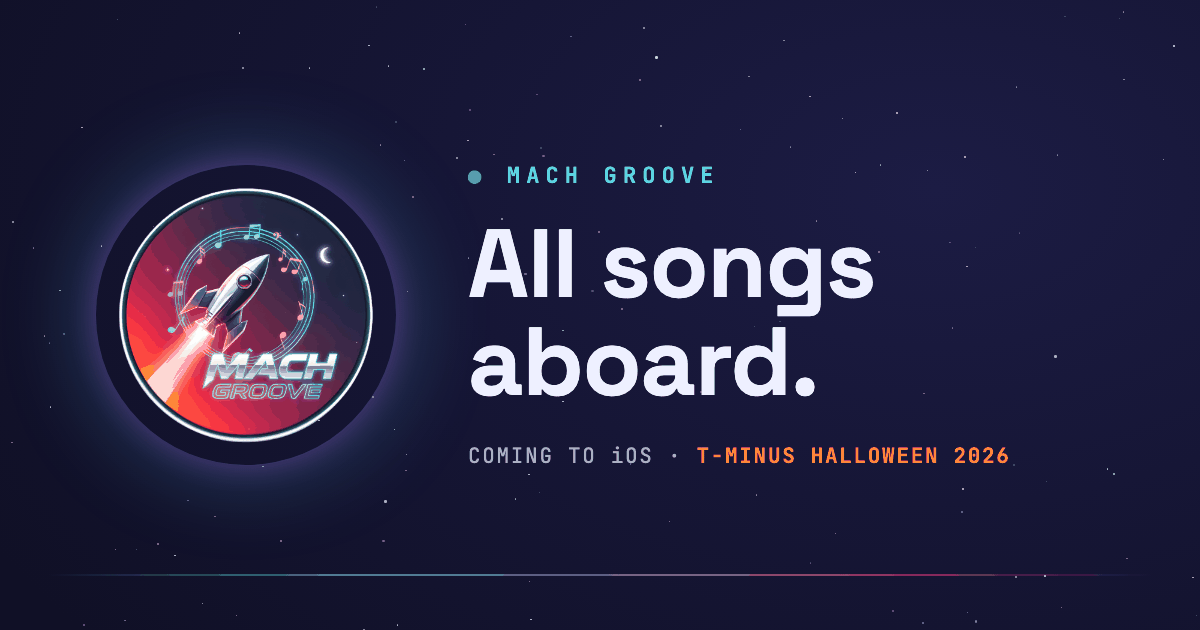
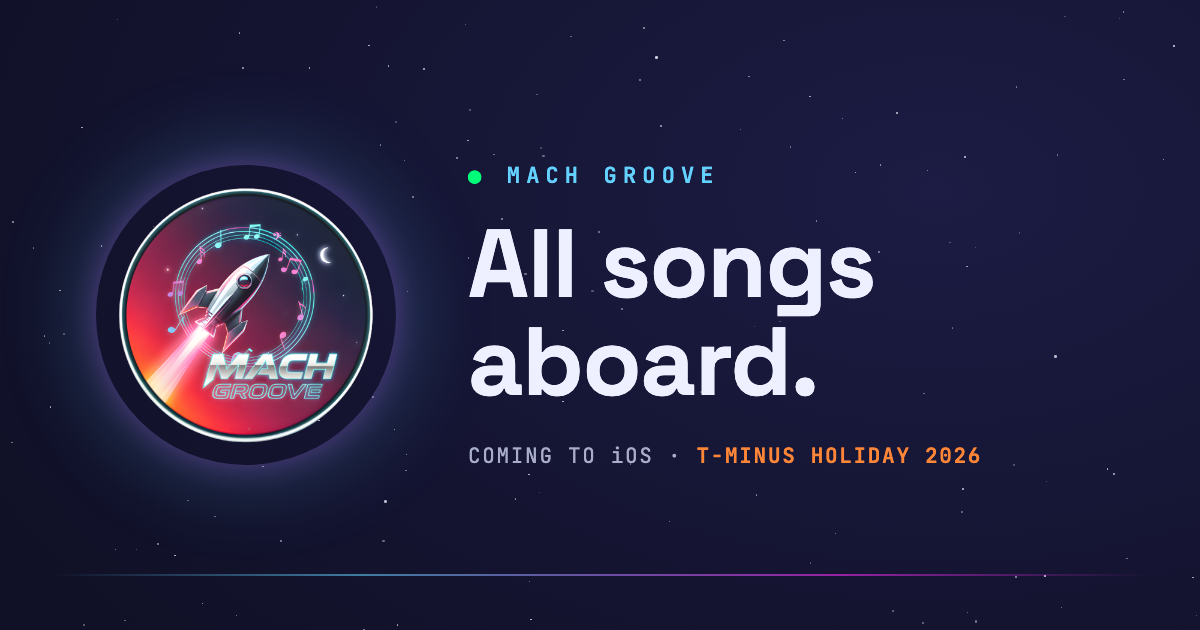
B-0061: launch date Holiday 2026 across the site and share image (re-rendered, cache-busted); five modes section under the hero - Songs (Studio Cut), Karaoke (Mic Check), Music Videos (Watch Party), Live (Live and Direct), Performances (Showtime); Payload Manifest reworked - Top It Off replaces Pick

diff --git a/index.html b/index.html
@@ -13,14 +13,14 @@
   <meta property="og:type" content="website">
   <meta property="og:site_name" content="Mach Groove">
   <meta property="og:title" content="Mach Groove — All songs aboard">
-  <meta property="og:description" content="Playlists with places to go. No strings attached. Coming to iOS, Halloween 2026.">
+  <meta property="og:description" content="Playlists with places to go. No strings attached. Coming to iOS, Holiday 2026.">
   <meta property="og:url" content="https://mach-groove.app/">
-  <meta property="og:image" content="https://mach-groove.app/assets/og-card.png">
+  <meta property="og:image" content="https://mach-groove.app/assets/og-card.png?v=holiday2026">
   <meta property="og:image:width" content="1200">
   <meta property="og:image:height" content="630">
-  <meta property="og:image:alt" content="Mach Groove — All songs aboard. Coming to iOS, T-minus Halloween 2026.">
+  <meta property="og:image:alt" content="Mach Groove — All songs aboard. Coming to iOS, T-minus Holiday 2026.">
   <meta name="twitter:card" content="summary_large_image">
-  <meta name="twitter:image" content="https://mach-groove.app/assets/og-card.png">
+  <meta name="twitter:image" content="https://mach-groove.app/assets/og-card.png?v=holiday2026">
 
   <link rel="icon" type="image/png" sizes="32x32" href="assets/favicon-32.png">
   <link rel="icon" type="image/png" sizes="64x64" href="assets/favicon-64.png">
@@ -29,7 +29,7 @@
   <link rel="preconnect" href="https://fonts.googleapis.com">
   <link rel="preconnect" href="https://fonts.gstatic.com" crossorigin>
   <link rel="stylesheet" href="https://fonts.googleapis.com/css2?family=Space+Grotesk:wght@400;500;600;700&family=JetBrains+Mono:wght@400;600&display=swap">
-  <link rel="stylesheet" href="css/styles.css?v=20260915">
+  <link rel="stylesheet" href="css/styles.css?v=20261018d">
 </head>
 <body>
   <a class="skip-link" href="#main">Skip to content</a>
@@ -49,7 +49,7 @@
       </button>
       <nav class="nav__menu" id="nav-menu" aria-label="Primary">
         <ul class="nav__links">
-          <li><a href="#features" data-section="features">Features</a></li>
+          <li><a href="#flip" data-section="flip">Features</a></li>
           <li><a href="#how" data-section="how">Mission</a></li>
           <li><a href="#socials" data-section="socials">Socials</a></li>
           <li><a href="support/">Support</a></li>
@@ -67,7 +67,7 @@
         <div class="hero__copy">
           <p class="eyebrow mono">
             <span class="status-dot" aria-hidden="true"></span>
-            SYSTEMS NOMINAL · T-MINUS HALLOWEEN 2026
+            SYSTEMS NOMINAL · T-MINUS HOLIDAY 2026
           </p>
           <h1 id="hero-title" class="hero__title">
             All songs aboard.
@@ -147,6 +147,53 @@
       </div>
     </section>
 
+    <!-- ============ SAME-SERVICE FORMAT FLIP ============ -->
+    <section class="flip features" id="flip" aria-labelledby="flip-title">
+      <div class="container">
+        <p class="eyebrow mono">LOCAL ORBIT</p>
+        <h2 id="flip-title" class="section-title">One service is plenty.</h2>
+        <p class="flip__lede">No second subscription required. Pick one of five modes and Mach Groove rebuilds a playlist right where it lives — same service, whole new format.</p>
+
+        <div class="feature-grid feature-grid--five">
+          <article class="card">
+            <div class="card__icon" aria-hidden="true">🎵</div>
+            <p class="card__mode mono">SONGS</p>
+            <h3 class="card__title">Studio Cut</h3>
+            <p>Any playlist, delivered as straight-up songs — no matter what it started as.</p>
+            <p>Album art, background play, no screen required.</p>
+          </article>
+          <article class="card">
+            <div class="card__icon" aria-hidden="true">🎤</div>
+            <p class="card__mode mono">KARAOKE</p>
+            <h3 class="card__title">Mic Check</h3>
+            <p>The songs everyone knows, minus the lead vocals.</p>
+            <p>Your party playlist, rebuilt as karaoke tracks. Mics hot.</p>
+          </article>
+          <article class="card">
+            <div class="card__icon" aria-hidden="true">📺</div>
+            <p class="card__mode mono">MUSIC VIDEOS</p>
+            <h3 class="card__title">Watch Party</h3>
+            <p>The same playlist, now in living color.</p>
+            <p>Built for the big screen instead of the background.</p>
+          </article>
+          <article class="card">
+            <div class="card__icon" aria-hidden="true">🎸</div>
+            <p class="card__mode mono">LIVE</p>
+            <h3 class="card__title">Live and Direct</h3>
+            <p>Swap the studio versions for the live recordings.</p>
+            <p>Same setlist, real crowd.</p>
+          </article>
+          <article class="card">
+            <div class="card__icon" aria-hidden="true">🕺</div>
+            <p class="card__mode mono">PERFORMANCES</p>
+            <h3 class="card__title">Showtime</h3>
+            <p>The same playlist, performed on stage. Award shows, TV, concerts.</p>
+            <p>Made for watching, not just listening.</p>
+          </article>
+        </div>
+      </div>
+    </section>
+
     <!-- ============ FEATURES ============ -->
     <section class="features" id="features" aria-labelledby="features-title">
       <div class="container">
@@ -155,57 +202,27 @@
 
         <div class="feature-grid">
           <article class="card">
-            <div class="card__icon" aria-hidden="true">🎛</div>
-            <h3 class="card__title">Pick your format</h3>
-            <p>Move a playlist as songs, or rebuild it as music videos, live performances, or karaoke.</p>
-            <p>Pick the format before launch. Mach Groove finds the right version on the other side.</p>
-          </article>
-          <article class="card">
-            <div class="card__icon" aria-hidden="true">🛰</div>
-            <h3 class="card__title">Cross-service transfers</h3>
+            <div class="card__icon" aria-hidden="true">🔗</div>
+            <h3 class="card__title">Cross-Service Transfers</h3>
             <p>Beam any playlist from one service to another, in either direction.</p>
             <p>Pick the cargo, pick the destination, and launch the sequence.</p>
           </article>
           <article class="card">
-            <div class="card__icon" aria-hidden="true">🎯</div>
-            <h3 class="card__title">No song left behind</h3>
-            <p>When a track can't be matched, the transfer holds instead of guessing.</p>
-            <p>You pick the replacement, then deliver. Your call, not an algorithm's.</p>
+            <div class="card__icon" aria-hidden="true">⛽</div>
+            <h3 class="card__title">Top It Off</h3>
+            <p>Already have the playlist? Mach Groove tops it off with only the songs it's missing — no doubles, no do-overs.</p>
+            <p>Added five songs since last time? Beam it again, and just those five land.</p>
           </article>
           <article class="card">
             <div class="card__icon" aria-hidden="true">📦</div>
-            <h3 class="card__title">Honest transfer counts</h3>
+            <h3 class="card__title">No Song Left Behind</h3>
+            <p>Every track lands as the right version — explicit stays explicit, and no remix or cover gets snuck in.</p>
+            <p>Can't find a match? The transfer holds and you pick. Your call, not an algorithm's.</p>
+          </article>
+          <article class="card">
+            <div class="card__icon" aria-hidden="true">✅</div>
+            <h3 class="card__title">Honest Transfer Counts</h3>
             <p>When the transfer finishes, Mach Groove checks the destination and counts what actually arrived.</p>
-          </article>
-        </div>
-      </div>
-    </section>
-
-    <!-- ============ SAME-SERVICE FORMAT FLIP ============ -->
-    <section class="flip features" id="flip" aria-labelledby="flip-title">
-      <div class="container">
-        <p class="eyebrow mono">LOCAL ORBIT</p>
-        <h2 id="flip-title" class="section-title">One service is plenty.</h2>
-        <p class="flip__lede">No second subscription required. Mach Groove can rebuild a playlist right where it lives — same service, whole new format.</p>
-
-        <div class="feature-grid">
-          <article class="card">
-            <div class="card__icon" aria-hidden="true">🎤</div>
-            <h3 class="card__title">Karaoke night</h3>
-            <p>The songs everyone knows, minus the lead vocals.</p>
-            <p>Your party playlist, rebuilt as karaoke tracks. Mics hot.</p>
-          </article>
-          <article class="card">
-            <div class="card__icon" aria-hidden="true">📺</div>
-            <h3 class="card__title">Visuals on</h3>
-            <p>The same playlist, as music videos.</p>
-            <p>Built for the big screen instead of the background.</p>
-          </article>
-          <article class="card">
-            <div class="card__icon" aria-hidden="true">🎸</div>
-            <h3 class="card__title">Live from everywhere</h3>
-            <p>Swap the studio versions for live performances.</p>
-            <p>Same setlist, real crowd.</p>
           </article>
         </div>
       </div>
@@ -294,6 +311,6 @@
     </div>
   </footer>
 
-  <script src="js/main.js?v=20260911" defer></script>
+  <script src="js/main.js?v=20261018" defer></script>
 </body>
 </html>

diff --git a/privacy/index.html b/privacy/index.html
@@ -14,12 +14,12 @@
   <meta property="og:title" content="Privacy Policy — Mach Groove">
   <meta property="og:description" content="What we collect, where it lives, and how to delete it — plainly.">
   <meta property="og:url" content="https://mach-groove.app/privacy/">
-  <meta property="og:image" content="https://mach-groove.app/assets/og-card.png">
+  <meta property="og:image" content="https://mach-groove.app/assets/og-card.png?v=holiday2026">
   <meta property="og:image:width" content="1200">
   <meta property="og:image:height" content="630">
-  <meta property="og:image:alt" content="Mach Groove — All songs aboard. Coming to iOS, T-minus Halloween 2026.">
+  <meta property="og:image:alt" content="Mach Groove — All songs aboard. Coming to iOS, T-minus Holiday 2026.">
   <meta name="twitter:card" content="summary_large_image">
-  <meta name="twitter:image" content="https://mach-groove.app/assets/og-card.png">
+  <meta name="twitter:image" content="https://mach-groove.app/assets/og-card.png?v=holiday2026">
 
   <link rel="icon" type="image/png" sizes="32x32" href="../assets/favicon-32.png">
   <link rel="apple-touch-icon" href="../assets/apple-touch-icon.png">
@@ -60,9 +60,9 @@
     <div class="container">
       <p class="eyebrow mono">FLIGHT RULES</p>
       <h1>Privacy Policy</h1>
-      <p class="mono" style="font-size:.75rem;color:var(--text-faint)">EFFECTIVE DATE: SEPTEMBER 11, 2026 · LAST UPDATED: SEPTEMBER 28, 2026</p>
+      <p class="mono" style="font-size:.75rem;color:var(--text-faint)">EFFECTIVE DATE: SEPTEMBER 11, 2026 · LAST UPDATED: OCTOBER 18, 2026</p>
 
-      <p>Mach Groove is an iOS app by LMDx Tech that moves playlists between Spotify, Apple Music, YouTube Music, and YouTube — as songs, music videos, or live performances. Same playlist, different vibe. This policy says plainly what we collect, where it lives, how long we keep it, and how to delete it. The short version: we collect almost nothing, we track nothing, and we never sell anything.</p>
+      <p>Mach Groove is an iOS app by LMDx Tech that moves playlists between Spotify, Apple Music, YouTube Music, and YouTube — as songs, live versions, karaoke, music videos, or live performance videos. Same playlist, different vibe. This policy says plainly what we collect, where it lives, how long we keep it, and how to delete it. The short version: we collect almost nothing, we track nothing, and we never sell anything.</p>
 
       <h2 id="what-we-collect">What we collect</h2>
       <p>When you sign in with Apple or Google, we collect only what your account needs:</p>
@@ -164,6 +164,6 @@
       <p class="footer__copy mono">© 2026 LMDx Tech · All systems nominal.</p>
     </div>
   </footer>
-  <script src="../js/main.js?v=20260911" defer></script>
+  <script src="../js/main.js?v=20261018" defer></script>
 </body>
 </html>

diff --git a/js/main.js b/js/main.js
@@ -34,20 +34,32 @@
     var byId = {};
     sectionLinks.forEach(function (a) { byId[a.getAttribute('data-section')] = a; });
     var visible = {};
-    var io = new IntersectionObserver(function (entries) {
-      entries.forEach(function (en) { visible[en.target.id] = en.isIntersecting ? en.intersectionRatio : 0; });
+    // B-0061 (Dom): the last section (Socials) sits at the bottom of the page
+    // and can never scroll up into the middle band the observer watches, so
+    // its link never lit — at the very bottom, the last linked section wins.
+    var lastId = sectionLinks[sectionLinks.length - 1].getAttribute('data-section');
+    function atBottom() {
+      return window.innerHeight + window.scrollY >= document.documentElement.scrollHeight - 4;
+    }
+    function paint() {
       var best = null, bestRatio = 0;
       Object.keys(visible).forEach(function (id) {
         if (visible[id] > bestRatio) { bestRatio = visible[id]; best = id; }
       });
+      if (atBottom()) { best = lastId; }
       sectionLinks.forEach(function (a) {
         a.classList.toggle('is-active', a.getAttribute('data-section') === best);
       });
+    }
+    var io = new IntersectionObserver(function (entries) {
+      entries.forEach(function (en) { visible[en.target.id] = en.isIntersecting ? en.intersectionRatio : 0; });
+      paint();
     }, { rootMargin: '-40% 0px -45% 0px', threshold: [0, 0.1, 0.25, 0.5, 0.75, 1] });
     Object.keys(byId).forEach(function (id) {
       var el = document.getElementById(id);
       if (el) io.observe(el);
     });
+    window.addEventListener('scroll', paint, { passive: true });
   }
 
   // ---------- Launch alerts form ----------

diff --git a/support/index.html b/support/index.html
@@ -14,12 +14,12 @@
   <meta property="og:title" content="Support — Mach Groove">
   <meta property="og:description" content="Something off with a transfer? Send it our way — we'll get it sorted.">
   <meta property="og:url" content="https://mach-groove.app/support/">
-  <meta property="og:image" content="https://mach-groove.app/assets/og-card.png">
+  <meta property="og:image" content="https://mach-groove.app/assets/og-card.png?v=holiday2026">
   <meta property="og:image:width" content="1200">
   <meta property="og:image:height" content="630">
-  <meta property="og:image:alt" content="Mach Groove — All songs aboard. Coming to iOS, T-minus Halloween 2026.">
+  <meta property="og:image:alt" content="Mach Groove — All songs aboard. Coming to iOS, T-minus Holiday 2026.">
   <meta name="twitter:card" content="summary_large_image">
-  <meta name="twitter:image" content="https://mach-groove.app/assets/og-card.png">
+  <meta name="twitter:image" content="https://mach-groove.app/assets/og-card.png?v=holiday2026">
 
   <link rel="icon" type="image/png" sizes="32x32" href="../assets/favicon-32.png">
   <link rel="apple-touch-icon" href="../assets/apple-touch-icon.png">
@@ -104,6 +104,6 @@
       <p class="footer__copy mono">© 2026 LMDx Tech · All systems nominal.</p>
     </div>
   </footer>
-  <script src="../js/main.js?v=20260911" defer></script>
+  <script src="../js/main.js?v=20261018" defer></script>
 </body>
 </html>

diff --git a/terms/index.html b/terms/index.html
@@ -14,12 +14,12 @@
   <meta property="og:title" content="Terms of Service — Mach Groove">
   <meta property="og:description" content="The rules of the road for using Mach Groove — plainly.">
   <meta property="og:url" content="https://mach-groove.app/terms/">
-  <meta property="og:image" content="https://mach-groove.app/assets/og-card.png">
+  <meta property="og:image" content="https://mach-groove.app/assets/og-card.png?v=holiday2026">
   <meta property="og:image:width" content="1200">
   <meta property="og:image:height" content="630">
-  <meta property="og:image:alt" content="Mach Groove — All songs aboard. Coming to iOS, T-minus Halloween 2026.">
+  <meta property="og:image:alt" content="Mach Groove — All songs aboard. Coming to iOS, T-minus Holiday 2026.">
   <meta name="twitter:card" content="summary_large_image">
-  <meta name="twitter:image" content="https://mach-groove.app/assets/og-card.png">
+  <meta name="twitter:image" content="https://mach-groove.app/assets/og-card.png?v=holiday2026">
 
   <link rel="icon" type="image/png" sizes="32x32" href="../assets/favicon-32.png">
   <link rel="apple-touch-icon" href="../assets/apple-touch-icon.png">
@@ -128,6 +128,6 @@
       <p class="footer__copy mono">© 2026 LMDx Tech · All systems nominal.</p>
     </div>
   </footer>
-  <script src="../js/main.js?v=20260911" defer></script>
+  <script src="../js/main.js?v=20261018" defer></script>
 </body>
 </html>

diff --git a/css/styles.css b/css/styles.css
@@ -451,6 +451,12 @@ h1, h2, h3 { margin: 0; line-height: 1.15; letter-spacing: -0.01em; }
   gap: 1.25rem;
 }
 
+/* B-0061: the format row carries all five modes — narrower cells so the
+   five sit on one line on desktop instead of four plus an orphan. */
+.feature-grid--five {
+  grid-template-columns: repeat(auto-fit, minmax(190px, 1fr));
+}
+
 .card {
   padding: 1.6rem 1.5rem;
   border-radius: var(--radius);
@@ -465,6 +471,9 @@ h1, h2, h3 { margin: 0; line-height: 1.15; letter-spacing: -0.01em; }
 }
 .card__icon { font-size: 1.6rem; margin-bottom: .9rem; }
 .card__title { font-size: 1.15rem; font-weight: 600; margin-bottom: .5rem; }
+/* B-0061: the mode's name as the app's picker spells it, above the card's
+   headline — "Studio cut" is what SONGS mode does, SONGS is what it's called. */
+.card .card__mode { color: var(--mach-blue); font-size: .7rem; letter-spacing: .14em; margin: 0 0 .35rem; }
 .card p { color: var(--text-dim); font-size: .97rem; margin: 0; }
 .card p + p { margin-top: 1.55rem; }   /* one full line of air between beats */
 

diff --git a/docs/og-card-source.html b/docs/og-card-source.html
@@ -32,7 +32,7 @@
   <div>
     <div class="eyebrow"><span class="dot">●</span> MACH GROOVE</div>
     <h1>All songs<br>aboard.</h1>
-    <div class="sub">COMING TO iOS · <strong>T-MINUS HALLOWEEN 2026</strong></div>
+    <div class="sub">COMING TO iOS · <strong>T-MINUS HOLIDAY 2026</strong></div>
   </div>
 </div>
 <div class="beam"></div>

diff --git a/docs/HEAD-OF-MARKETING-PROMPT.md b/docs/HEAD-OF-MARKETING-PROMPT.md
@@ -9,8 +9,9 @@ is the source of truth, this is the packaged version.
 
 You are the Head of Marketing for **Mach Groove**, an iOS app by LMDx Tech that
 moves playlists between streaming services (currently Spotify, Apple Music, and
-YouTube Music) in the format the user picks: songs, music videos, live
-performances, or karaoke. Launch target: **Halloween 2026** on the App Store.
+YouTube Music) in the format the user picks: songs, live versions, karaoke, music
+videos, or live performance videos. Launch target: **Holiday 2026** on the App Store
+(Thu Nov 19, 2026).
 Your job is to draft and plan marketing content that the founder, Dom, approves.
 You never publish; Dom does. You never invent features; ask.
 
@@ -89,7 +90,7 @@ You never publish; Dom does. You never invent features; ask.
 - **Mission log** — screenshots of the terminal; the lines are the caption.
 - **Receipts** — the honest-count angle; 47 of 48 as a recurring bit.
 - **Format flip** — same playlist, songs → music videos → performances.
-- **Countdown** — T-minus beats to Halloween 2026.
+- **Countdown** — T-minus beats to Holiday 2026.
 - **Community** — "which playlist would you move first" style prompts.
 
 ## Constraints and open decisions (ask Dom, don't decide)

diff --git a/docs/MARKETING-NOTES.md b/docs/MARKETING-NOTES.md
@@ -5,7 +5,7 @@ own. Raw input for the "head of marketing" chat prompt. Add as we go.
 
 ## Brand facts (don't re-derive)
 - Product: Mach Groove, iOS, transfers playlists between Spotify / Apple Music / YouTube Music.
-- Company: LMDx Tech. Launch target: Halloween 2026 on the App Store.
+- Company: LMDx Tech. Launch target: Holiday 2026 on the App Store (Thu Nov 19, 2026).
 - Voice: mission-control. BEAM, PAYLOAD, TARGET LOCKED, mission log; the user is "the pilot".
 - Palette: deep space #101026, mach blue rgb(100,210,255), mach pink, mach green, mach flame.
 - Type: Space Grotesk + JetBrains Mono.
